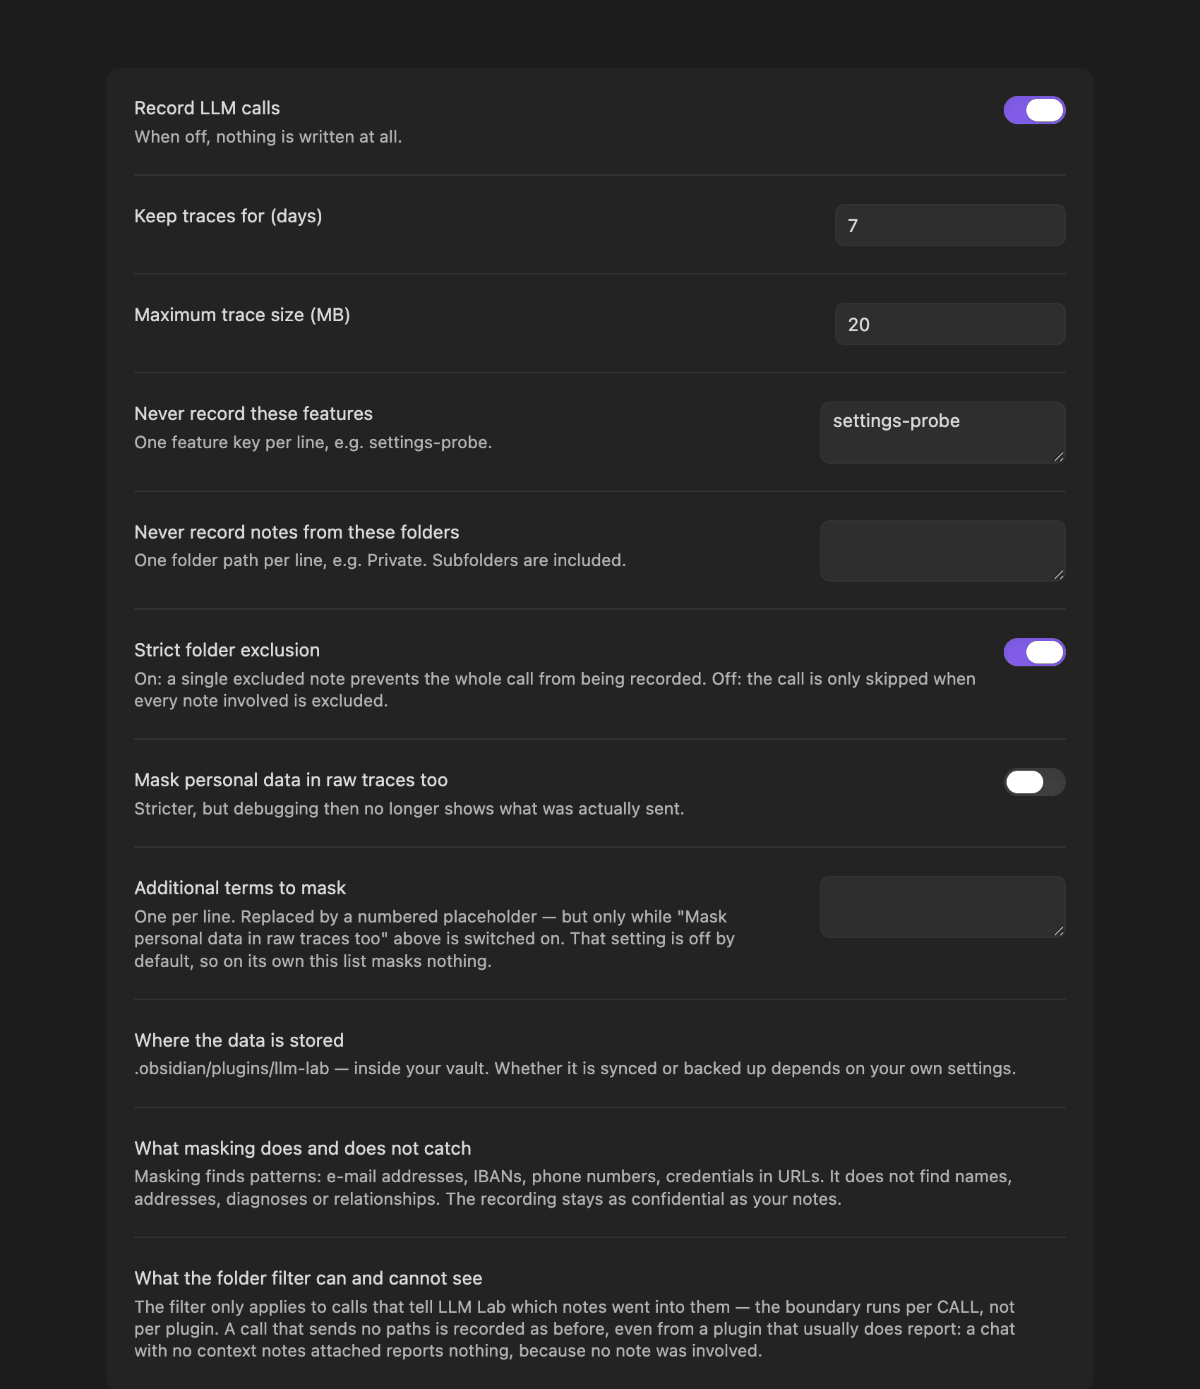
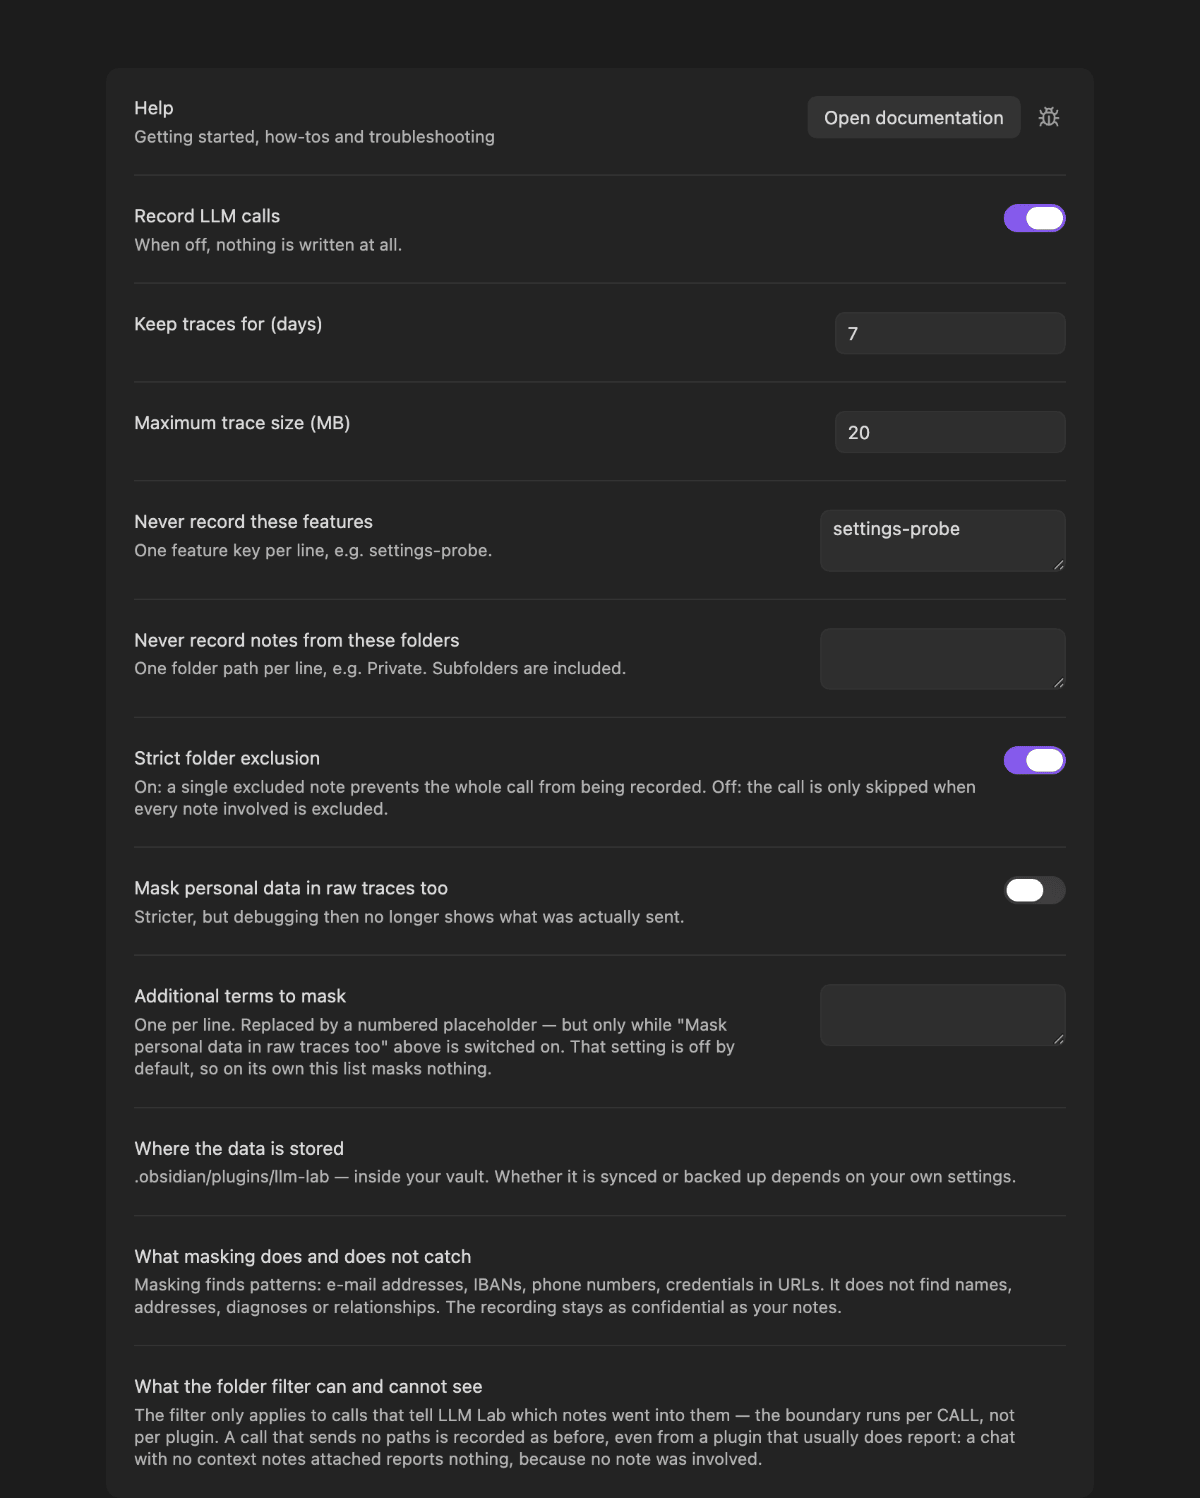
docs: Unreleased — Pin-Hebung obsidian-kit 0.56.0 / code-kit 0.23.0, Einstellungsbild mit Hilfe-Zeile
Gate 135/135, Smoke 46/46 grün (vorher 46/46).

diff --git a/CHANGELOG.md b/CHANGELOG.md
@@ -6,6 +6,11 @@ All notable changes to this project are documented here. The format follows
 
 ## [Unreleased]
 
+### Changed
+
+- Kit pins raised to `obsidian-kit` 0.56.0 and `code-kit` 0.23.0 (from 0.51.3 and 0.18.0). Nothing you can see changes: the trace log masks keys and personal data exactly as before. The plugin vendors only `redact` and the settings/hub modules from the kit; the broader `Bearer` rule of code-kit 0.21.0 (eight characters, any capitalization, also hits prose such as "Bearer authentication") belongs to the kit's text redaction, which the trace log does not use, so log entries are not masked more widely. The linear `<think>` removal of code-kit 0.22.0 is in a module this plugin does not vendor.
+- The settings screenshot in the README now shows the current Settings page, including the Help row.
+
 ## [0.9.0] — 2026-10-10
 
 ### Changed
